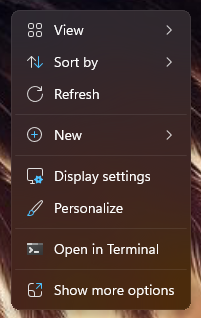
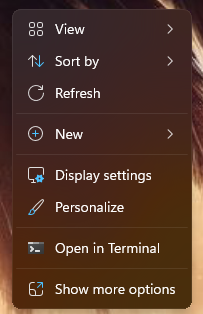
chore: rename RelaunchElevated to RelaunchAsAdmin, update preview images
Rename command to match codebase convention (all other VMs use
RelaunchAsAdmin). Replace preview screenshots with user's clean
captures (no watermarks).

diff --git a/SysManager/SysManager/Views/ContextMenuView.xaml b/SysManager/SysManager/Views/ContextMenuView.xaml
@@ -31,7 +31,7 @@
                 BorderThickness="1" CornerRadius="8" Padding="14,12" Margin="0,0,0,12"
                 Visibility="{Binding IsElevated, Converter={StaticResource FlexVis}, ConverterParameter=Inverse}">
             <DockPanel>
-                <Button Content="Run as administrator" Command="{Binding RelaunchElevatedCommand}"
+                <Button Content="Run as administrator" Command="{Binding RelaunchAsAdminCommand}"
                         Style="{StaticResource AdminButton}" DockPanel.Dock="Right" Padding="14,8"/>
                 <StackPanel Orientation="Horizontal" VerticalAlignment="Center">
                     <TextBlock Text="&#xE83D;" FontFamily="Segoe Fluent Icons,Segoe MDL2 Assets"

diff --git a/SysManager/SysManager/ViewModels/ContextMenuViewModel.cs b/SysManager/SysManager/ViewModels/ContextMenuViewModel.cs
@@ -97,7 +97,7 @@ public sealed partial class ContextMenuViewModel : ViewModelBase
     }
 
     [RelayCommand]
-    private void RelaunchElevated()
+    private void RelaunchAsAdmin()
     {
         if (AdminHelper.RelaunchAsAdmin())
             System.Windows.Application.Current?.Shutdown();
@@ -133,7 +133,7 @@ public sealed partial class ContextMenuViewModel : ViewModelBase
                     $"Could not toggle \"{entry.Name}\" — this requires administrator privileges.\n\nRestart SysManager as administrator?",
                     "Admin Required"))
                 {
-                    RelaunchElevated();
+                    RelaunchAsAdmin();
                 }
             }
             else